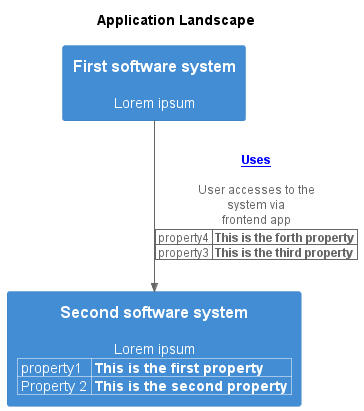
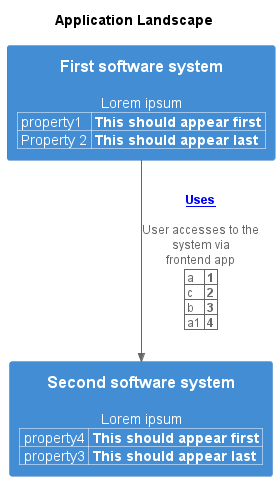
fix: add properties to elements and relations

diff --git a/src/main/java/it/vitalegi/archi/exporter/c4/plantuml/writer/C4PlantumlWriter.java b/src/main/java/it/vitalegi/archi/exporter/c4/plantuml/writer/C4PlantumlWriter.java
@@ -39,8 +39,8 @@ public class C4PlantumlWriter extends PlantumlWriter {
     }
 
     protected void deploymentNodeStart(String alias, String label, String type, String description, String sprite, String tags, String link, List<C4DiagramElementProperty> properties) {
-        println(format("Deployment_Node(%s, %s, $type=\"%s\", $descr=\"%s\", $sprite=\"%s\", $tags=\"%s\", $link=\"%s\") {", alias, label, type, description, sprite, tags, link));
         addProperties(properties);
+        println(format("Deployment_Node(%s, %s, $type=\"%s\", $descr=\"%s\", $sprite=\"%s\", $tags=\"%s\", $link=\"%s\") {", alias, label, type, description, sprite, tags, link));
         increaseTab();
     }
 
@@ -50,8 +50,8 @@ public class C4PlantumlWriter extends PlantumlWriter {
     }
 
     public void boundaryStart(C4DiagramElement element) {
-        boundaryStart(getAlias(element), element.getName(), formatTags(element));
         addProperties(element);
+        boundaryStart(getAlias(element), element.getName(), formatTags(element));
     }
 
     protected void boundaryStart(String alias, String label, String tags) {
@@ -69,16 +69,8 @@ public class C4PlantumlWriter extends PlantumlWriter {
     }
 
     protected void container(String alias, String label, String technology, String description, String sprite, String tags, String link, String shape, List<C4DiagramElementProperty> properties) {
-        print(format("Container($alias=\"%s\", $label=\"%s\", $techn=\"%s\", $descr=\"%s\", $sprite=\"%s\", $tags=\"%s\", $link=\"%s\", $baseShape=\"%s\")", alias, label, technology, description, sprite, tags, link, shape));
-        if (!properties.isEmpty()) {
-            increaseTab();
-            println(" {");
-            addProperties(properties);
-            decreaseTab();
-            println("}");
-        } else {
-            println("");
-        }
+        addProperties(properties);
+        println(format("Container($alias=\"%s\", $label=\"%s\", $techn=\"%s\", $descr=\"%s\", $sprite=\"%s\", $tags=\"%s\", $link=\"%s\", $baseShape=\"%s\")", alias, label, technology, description, sprite, tags, link, shape));
     }
 
     public void withoutPropertyHeader() {
@@ -102,6 +94,7 @@ public class C4PlantumlWriter extends PlantumlWriter {
     }
 
     public void addRelation(C4DiagramRelation relation) {
+        addProperties(relation.getProperties());
         addRelation("Rel", relation.getFromAlias(), relation.getToAlias(), relation.getLabel(), formatTechnologies(relation), relation.getDescription(), relation.getSprite(), formatTags(relation), relation.getLink());
     }
 
